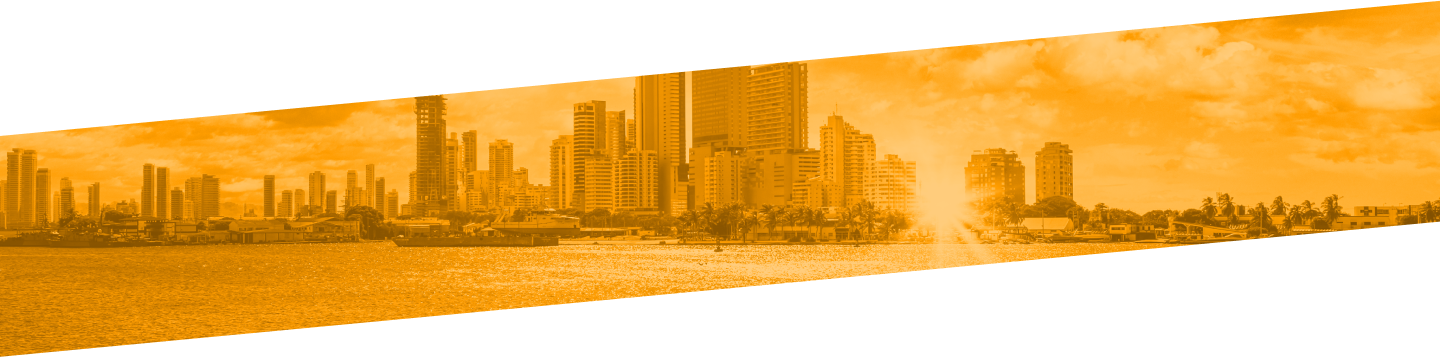
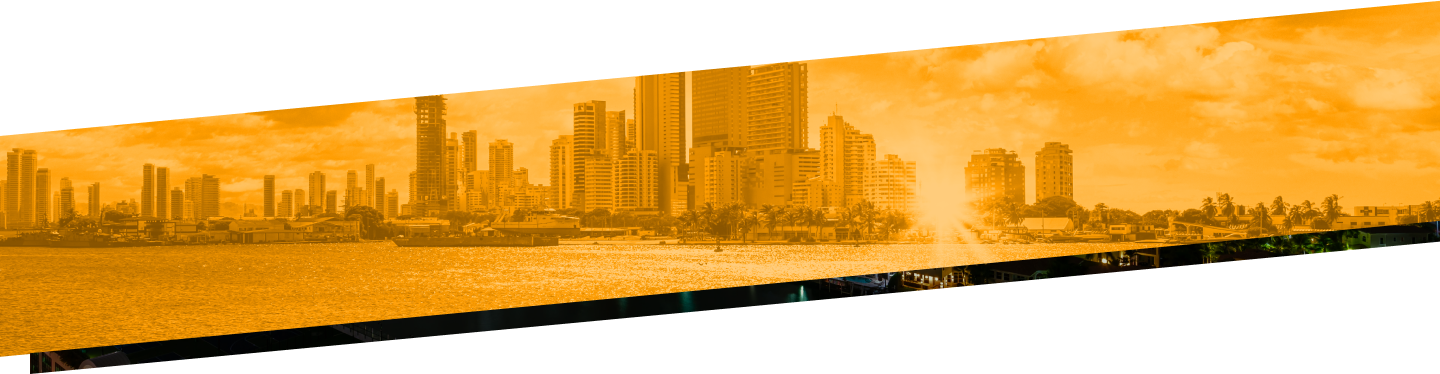
Responsive Great Work Section Updated

diff --git a/src/components/home/GreatWork.jsx b/src/components/home/GreatWork.jsx
@@ -2,6 +2,8 @@
 import { useRef, useState } from "react";
 import Slider from "react-slick";
 import PlayIcon from "../icons/PlayIcon";
+import { Button } from "@/shadcn/ui/button";
+import DoubleArrowIcon from "../icons/DoubleArrowIcon";
 
 const GreatWork = () => {
   const sliderRef = useRef(null);
@@ -17,7 +19,7 @@ const GreatWork = () => {
     autoPlay: true,
     centerMode: true,
     variableWidth: true,
-    initialSlide: 2,
+    initialSlide: 1,
     focusOnSelect: true,
   };
   return (
@@ -37,11 +39,34 @@ const GreatWork = () => {
               ref={sliderRef}
             >
               {Array.from({ length: 6 }).map((_, i) => (
-                <div className="px-2 mx-auto" key={i}>
+                <div className="px-4 mx-auto pt-8 pb-16" key={i}>
                   <VideoItem />
                 </div>
               ))}
             </Slider>
+
+            <div className="flex items-center justify-center gap-4">
+              <Button
+                variant="ghost"
+                size="icon"
+                className="rounded-full"
+                onClick={() => sliderRef.current.slickPrev()}
+              >
+                <DoubleArrowIcon size={16} className="rotate-180" />
+              </Button>
+              <p className="font-copperPlate font-bold">
+                Scroll For <br />
+                More Videos
+              </p>
+              <Button
+                variant="ghost"
+                size="icon"
+                className="rounded-full"
+                onClick={() => sliderRef.current.slickNext()}
+              >
+                <DoubleArrowIcon size={16} />
+              </Button>
+            </div>
           </div>
 
           {/* For Large Devices */}
@@ -62,13 +87,6 @@ const GreatWork = () => {
         <img
           className="w-full h-[400px]"
           src="/images/about_cover.png"
-          alt="bg"
-        />
-      </div>
-      <div className="absolute bottom-4 -rotate-[0.5deg] -right-10 w-full -z-10">
-        <img
-          className="w-full h-[156px]"
-          src="/images/about_cover_2.png"
           alt="bg"
         />
       </div>

diff --git a/src/components/home/Banner.jsx b/src/components/home/Banner.jsx
@@ -47,7 +47,7 @@ const Banner = () => {
               </span>{" "}
               Dental Center
             </h1>
-            <p className="mt-5 max-w-md text-lg max-md:text-base max-md:max-w-sm">
+            <p className="mt-5 max-w-[445px] text-lg max-md:text-base max-md:max-w-sm">
               Discover unparalleled dental care that transforms and revitalizes
               your smile with cutting-edge treatments in Fort Lauderdale.{" "}
             </p>
@@ -96,10 +96,12 @@ const Banner = () => {
                   for a comprehensive dental exam, x-ray and teeth cleaning.
                 </p>
               </div>
-              <p className="text-[96px] max-md:leading-[96px] font-black text-white">$99</p>
-              <p className="max-w-[220px]">
-                  for a comprehensive dental exam, x-ray and teeth cleaning.
-                </p>
+              <p className="text-[96px] max-md:leading-[96px] font-black text-white">
+                $99
+              </p>
+              <p className="block md:hidden max-w-[220px]">
+                for a comprehensive dental exam, x-ray and teeth cleaning.
+              </p>
             </div>
           </div>
         </div>

diff --git a/src/app/globals.css b/src/app/globals.css
@@ -105,12 +105,38 @@ body {
   transition: all 0.3s ease;
 }
 
-.video_wrapper:hover {
-  width: 257px;
-  border-radius: 16px;
+.video_wrapper::after {
+  content: "";
+  position: absolute;
+  top: 0;
+  left: 0;
+  width: 100%;
+  height: 100%;
+  background: rgba(0, 0, 0, 0.3);
+  z-index: 1;
+
+}
+
+@media only screen and (min-width: 768px) {
+  .video_wrapper:hover {
+    width: 257px;
+    border-radius: 20px;
+    transform: scaleY(1.1);
+
+  }
+}
+
+.video_wrapper:hover::after {
+  display: none;
 }
 
 .slick-active .video_wrapper {
   width: 257px !important;
-  border-radius: 16px;
+  border-radius: 20px;
+  transform: scaleY(1.1);
+  box-shadow: 0px 11px 22px 0px #98989A;
+}
+
+.slick-active .video_wrapper::after {
+  display: none;
 }

diff --git a/src/components/icons/DoubleArrowIcon.jsx b/src/components/icons/DoubleArrowIcon.jsx
@@ -1,0 +1,30 @@
+const DoubleArrowIcon = ({
+  size,
+  width = 12,
+  height = 10,
+  className,
+  color = "black",
+  ...rest
+}) => {
+  return (
+    <svg
+      width={size || width}
+      height={size || height}
+      className={className}
+      {...rest}
+      viewBox="0 0 12 10"
+      fill="none"
+      xmlns="http://www.w3.org/2000/svg"
+    >
+      <path
+        d="M7 1L11 5L7 9M1 1L5 5L1 9"
+        stroke={color}
+        strokeWidth="1.5"
+        strokeLinecap="round"
+        strokeLinejoin="round"
+      />
+    </svg>
+  );
+};
+
+export default DoubleArrowIcon;
